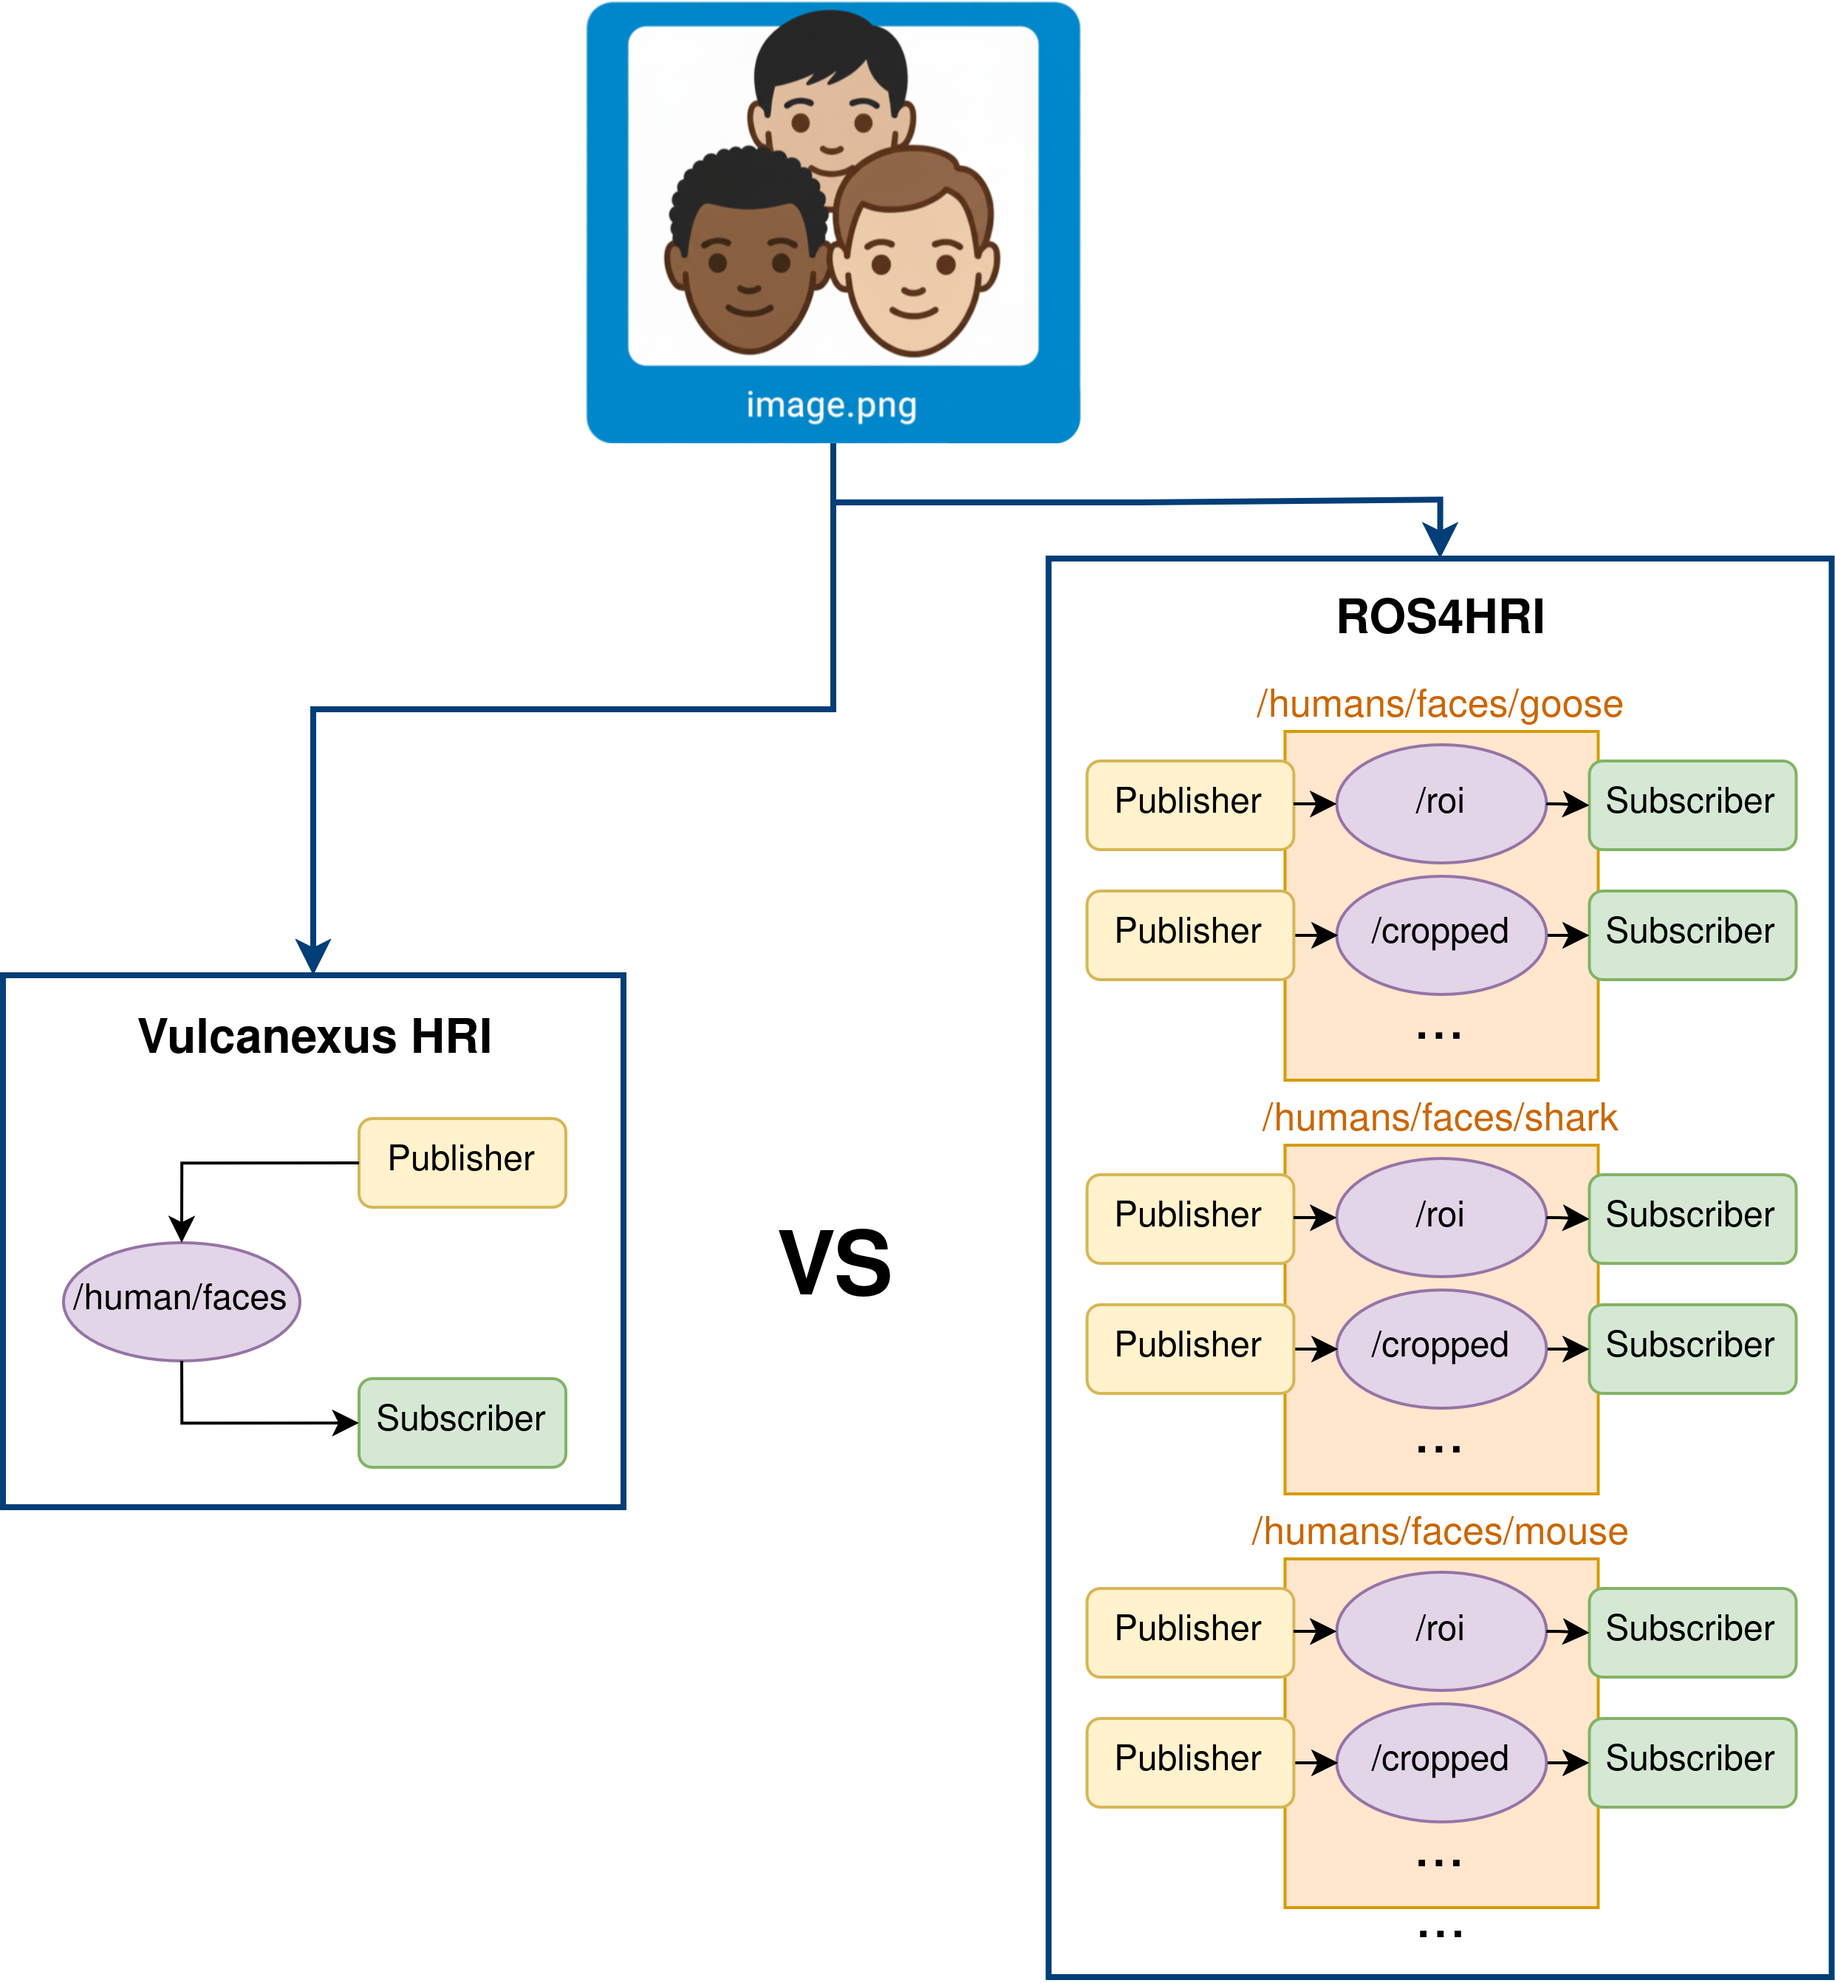
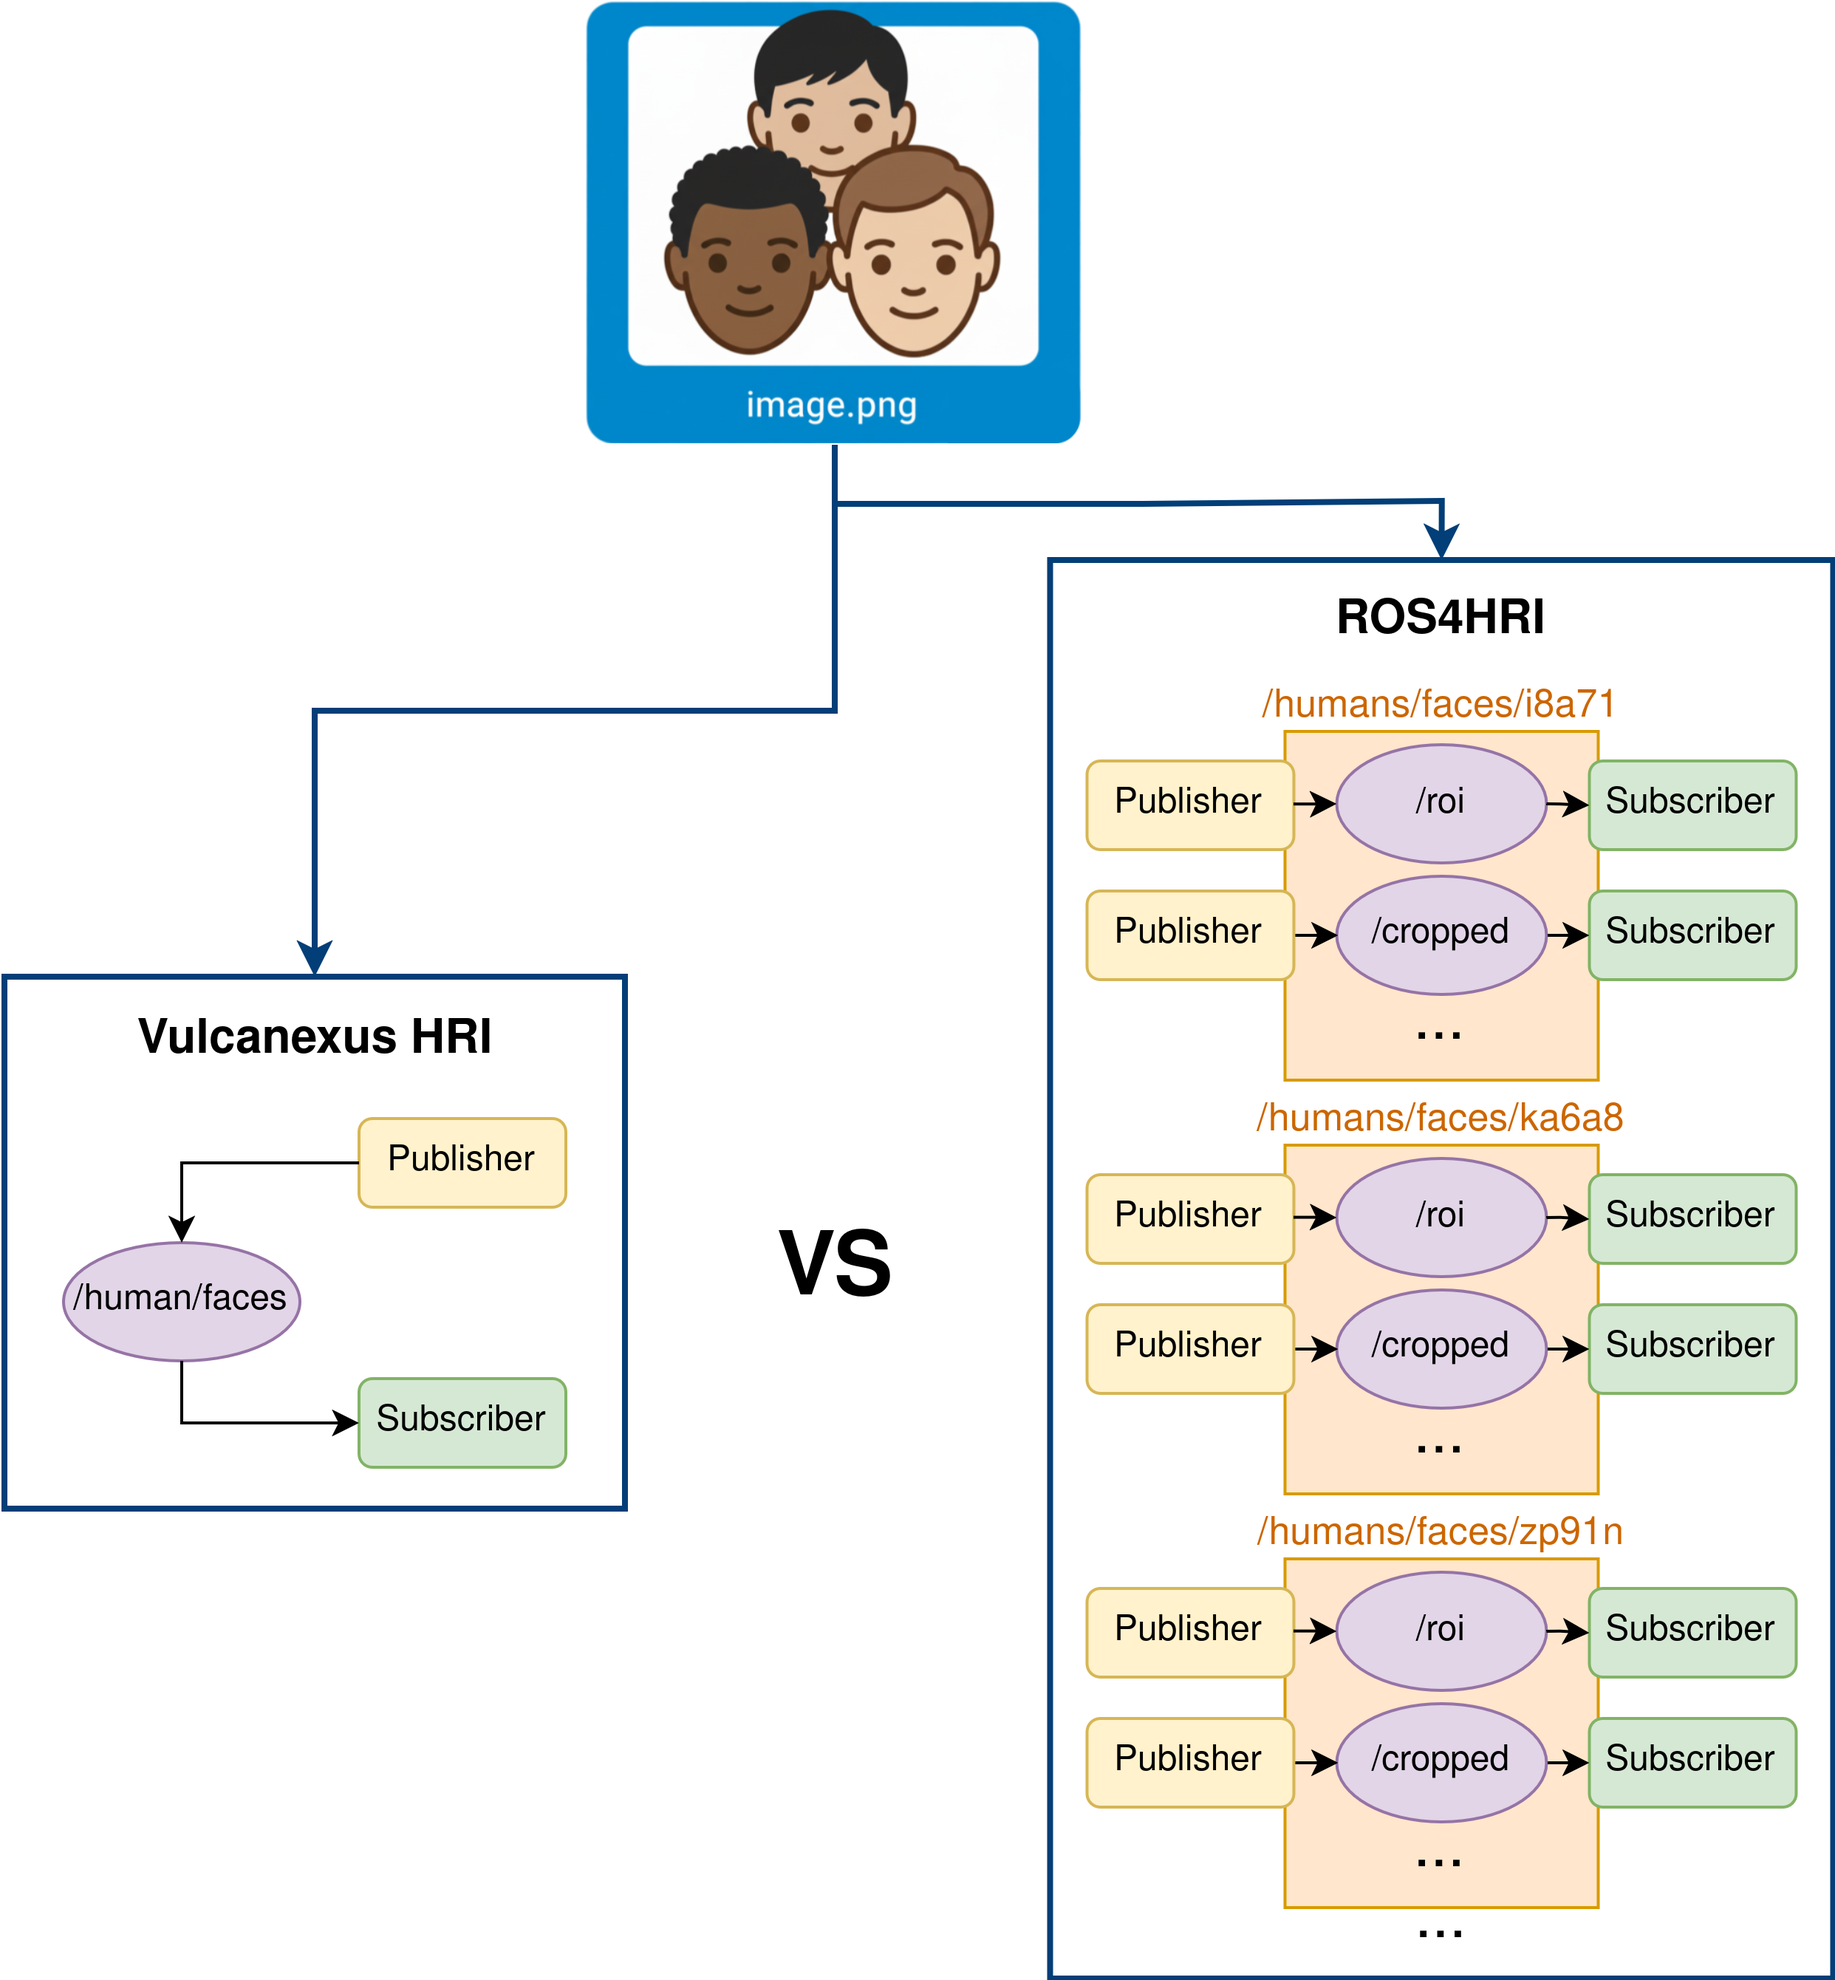
Refs #23642: Use random IDs

diff --git a/docs/rst/enhancements/hri_msgs/hri_msgs.rst b/docs/rst/enhancements/hri_msgs/hri_msgs.rst
@@ -19,13 +19,13 @@ The specification aims to provide broadly accepted interfaces and pipelines for 
 Following this approach, the `ROS4HRI <https://github.com/ros4hri>`_ framework has developed a series of ROS 2 packages that implements basic HRI functionalities such as face detection, gesture recognition or voice processing.
 
 One of the key aspects of the ROS REP-155 which has been implemented by ROS4HRI is the use of dedicated namespaces for each detected human entity.
-For example, when a new face is detected, a new namespace such as ``/humans/faces/alzha/`` is created.
+For example, when a new face is detected, a new namespace such as ``/humans/faces/ja8v7/`` is created.
 Under this namespace, multiple topics coexist to publish complementary information:
 
-- ``/humans/faces/alzha/roi``
-- ``/humans/faces/alzha/cropped``
-- ``/humans/faces/alzha/landmarks``
-- ``/humans/faces/alzha/pose``
+- ``/humans/faces/ja8v7/roi``
+- ``/humans/faces/ja8v7/cropped``
+- ``/humans/faces/ja8v7/landmarks``
+- ``/humans/faces/ja8v7/pose``
 - And up to 8 topics in total for each face instance.
 
 Similarly, body detections replicate this behavior, creating one namespace for each detected body, but working with up to 6 topics under each detected body namespace.
